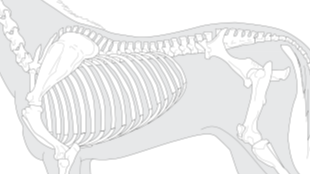
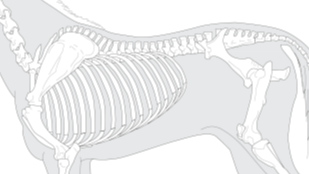
create github pages

diff --git a/kontakt.html b/kontakt.html
@@ -122,7 +122,7 @@
                     <div data-form-alert="" hidden="">Vielen Dank für deine Nachricht! Ich melde mich so bald wie möglich.
 Judith</div>
             
[2 lines of base64/hex data omitted]
                         <div class="row row-sm-offset">
                             <div class="col-md-4 multi-horizontal" data-for="name">
                                 <div class="form-group">
@@ -185,7 +185,7 @@ Judith</div>
         </div>
         
     </div>
-</section><section style="background-color: #fff; font-family: -apple-system, BlinkMacSystemFont, 'Segoe UI', 'Roboto', 'Helvetica Neue', Arial, sans-serif; color:#aaa; font-size:12px; padding: 0; align-items: center; display: flex;"><a href="https://mobirise.site/x" style="flex: 1 1; height: 3rem; padding-left: 1rem;"></a><p style="flex: 0 0 auto; margin:0; padding-right:1rem;">Mobirise website maker - <a href="https://mobirise.site/p" style="color:#aaa;">Find more</a></p></section><script src="assets/popper/popper.min.js"></script>  <script src="assets/web/assets/jquery/jquery.min.js"></script>  <script src="assets/bootstrap/js/bootstrap.min.js"></script>  <script src="assets/tether/tether.min.js"></script>  <script src="assets/smoothscroll/smooth-scroll.js"></script>  <script src="assets/parallax/jarallax.min.js"></script>  <script src="assets/dropdown/js/nav-dropdown.js"></script>  <script src="assets/dropdown/js/navbar-dropdown.js"></script>  <script src="assets/touchswipe/jquery.touch-swipe.min.js"></script>  <script src="assets/theme/js/script.js"></script>  <script src="assets/formoid/formoid.min.js"></script>  
+</section><section style="background-color: #fff; font-family: -apple-system, BlinkMacSystemFont, 'Segoe UI', 'Roboto', 'Helvetica Neue', Arial, sans-serif; color:#aaa; font-size:12px; padding: 0; align-items: center; display: flex;"><a href="https://mobirise.site/v" style="flex: 1 1; height: 3rem; padding-left: 1rem;"></a><p style="flex: 0 0 auto; margin:0; padding-right:1rem;">Mobirise web page maker - <a href="https://mobirise.site/p" style="color:#aaa;">Get more</a></p></section><script src="assets/popper/popper.min.js"></script>  <script src="assets/web/assets/jquery/jquery.min.js"></script>  <script src="assets/bootstrap/js/bootstrap.min.js"></script>  <script src="assets/tether/tether.min.js"></script>  <script src="assets/smoothscroll/smooth-scroll.js"></script>  <script src="assets/parallax/jarallax.min.js"></script>  <script src="assets/dropdown/js/nav-dropdown.js"></script>  <script src="assets/dropdown/js/navbar-dropdown.js"></script>  <script src="assets/touchswipe/jquery.touch-swipe.min.js"></script>  <script src="assets/theme/js/script.js"></script>  <script src="assets/formoid/formoid.min.js"></script>  
   
   
 </body>

diff --git a/index.html b/index.html
@@ -496,7 +496,7 @@
         </div>
         
     </div>
-</section><section style="background-color: #fff; font-family: -apple-system, BlinkMacSystemFont, 'Segoe UI', 'Roboto', 'Helvetica Neue', Arial, sans-serif; color:#aaa; font-size:12px; padding: 0; align-items: center; display: flex;"><a href="https://mobirise.site/d" style="flex: 1 1; height: 3rem; padding-left: 1rem;"></a><p style="flex: 0 0 auto; margin:0; padding-right:1rem;">Mobirise page maker - <a href="https://mobirise.site/p" style="color:#aaa;">Try here</a></p></section><script src="assets/popper/popper.min.js"></script>  <script src="assets/web/assets/jquery/jquery.min.js"></script>  <script src="assets/bootstrap/js/bootstrap.min.js"></script>  <script src="assets/tether/tether.min.js"></script>  <script src="assets/smoothscroll/smooth-scroll.js"></script>  <script src="assets/dropdown/js/nav-dropdown.js"></script>  <script src="assets/dropdown/js/navbar-dropdown.js"></script>  <script src="assets/touchswipe/jquery.touch-swipe.min.js"></script>  <script src="assets/parallax/jarallax.min.js"></script>  <script src="assets/bootstrapcarouselswipe/bootstrap-carousel-swipe.js"></script>  <script src="assets/mbr-testimonials-slider/mbr-testimonials-slider.js"></script>  <script src="assets/theme/js/script.js"></script>  
+</section><section style="background-color: #fff; font-family: -apple-system, BlinkMacSystemFont, 'Segoe UI', 'Roboto', 'Helvetica Neue', Arial, sans-serif; color:#aaa; font-size:12px; padding: 0; align-items: center; display: flex;"><a href="https://mobirise.site/l" style="flex: 1 1; height: 3rem; padding-left: 1rem;"></a><p style="flex: 0 0 auto; margin:0; padding-right:1rem;">This <a href="https://mobirise.site/e" style="color:#aaa;">page</a> was made with Mobirise</p></section><script src="assets/popper/popper.min.js"></script>  <script src="assets/web/assets/jquery/jquery.min.js"></script>  <script src="assets/bootstrap/js/bootstrap.min.js"></script>  <script src="assets/tether/tether.min.js"></script>  <script src="assets/smoothscroll/smooth-scroll.js"></script>  <script src="assets/dropdown/js/nav-dropdown.js"></script>  <script src="assets/dropdown/js/navbar-dropdown.js"></script>  <script src="assets/touchswipe/jquery.touch-swipe.min.js"></script>  <script src="assets/parallax/jarallax.min.js"></script>  <script src="assets/bootstrapcarouselswipe/bootstrap-carousel-swipe.js"></script>  <script src="assets/mbr-testimonials-slider/mbr-testimonials-slider.js"></script>  <script src="assets/theme/js/script.js"></script>  
   
   
 </body>

diff --git a/seminare.html b/seminare.html
@@ -351,7 +351,7 @@
         </div>
         
     </div>
-</section><section style="background-color: #fff; font-family: -apple-system, BlinkMacSystemFont, 'Segoe UI', 'Roboto', 'Helvetica Neue', Arial, sans-serif; color:#aaa; font-size:12px; padding: 0; align-items: center; display: flex;"><a href="https://mobirise.site/v" style="flex: 1 1; height: 3rem; padding-left: 1rem;"></a><p style="flex: 0 0 auto; margin:0; padding-right:1rem;">Mobirise site builder - <a href="https://mobirise.site/o" style="color:#aaa;">Click here</a></p></section><script src="assets/popper/popper.min.js"></script>  <script src="assets/web/assets/jquery/jquery.min.js"></script>  <script src="assets/bootstrap/js/bootstrap.min.js"></script>  <script src="assets/tether/tether.min.js"></script>  <script src="assets/smoothscroll/smooth-scroll.js"></script>  <script src="assets/parallax/jarallax.min.js"></script>  <script src="assets/dropdown/js/nav-dropdown.js"></script>  <script src="assets/dropdown/js/navbar-dropdown.js"></script>  <script src="assets/touchswipe/jquery.touch-swipe.min.js"></script>  <script src="assets/theme/js/script.js"></script>  
+</section><section style="background-color: #fff; font-family: -apple-system, BlinkMacSystemFont, 'Segoe UI', 'Roboto', 'Helvetica Neue', Arial, sans-serif; color:#aaa; font-size:12px; padding: 0; align-items: center; display: flex;"><a href="https://mobirise.site/y" style="flex: 1 1; height: 3rem; padding-left: 1rem;"></a><p style="flex: 0 0 auto; margin:0; padding-right:1rem;"><a href="https://mobirise.site/q" style="color:#aaa;">This page</a> was built with Mobirise website theme</p></section><script src="assets/popper/popper.min.js"></script>  <script src="assets/web/assets/jquery/jquery.min.js"></script>  <script src="assets/bootstrap/js/bootstrap.min.js"></script>  <script src="assets/tether/tether.min.js"></script>  <script src="assets/smoothscroll/smooth-scroll.js"></script>  <script src="assets/parallax/jarallax.min.js"></script>  <script src="assets/dropdown/js/nav-dropdown.js"></script>  <script src="assets/dropdown/js/navbar-dropdown.js"></script>  <script src="assets/touchswipe/jquery.touch-swipe.min.js"></script>  <script src="assets/theme/js/script.js"></script>  
   
   
 </body>

diff --git a/Ausbildung.html b/Ausbildung.html
@@ -173,7 +173,7 @@
         </div>
         
     </div>
-</section><section style="background-color: #fff; font-family: -apple-system, BlinkMacSystemFont, 'Segoe UI', 'Roboto', 'Helvetica Neue', Arial, sans-serif; color:#aaa; font-size:12px; padding: 0; align-items: center; display: flex;"><a href="https://mobirise.site/d" style="flex: 1 1; height: 3rem; padding-left: 1rem;"></a><p style="flex: 0 0 auto; margin:0; padding-right:1rem;">Designed with Mobirise - <a href="https://mobirise.site/m" style="color:#aaa;">Click now</a></p></section><script src="assets/popper/popper.min.js"></script>  <script src="assets/web/assets/jquery/jquery.min.js"></script>  <script src="assets/bootstrap/js/bootstrap.min.js"></script>  <script src="assets/tether/tether.min.js"></script>  <script src="assets/smoothscroll/smooth-scroll.js"></script>  <script src="assets/parallax/jarallax.min.js"></script>  <script src="assets/dropdown/js/nav-dropdown.js"></script>  <script src="assets/dropdown/js/navbar-dropdown.js"></script>  <script src="assets/touchswipe/jquery.touch-swipe.min.js"></script>  <script src="assets/theme/js/script.js"></script>  
+</section><section style="background-color: #fff; font-family: -apple-system, BlinkMacSystemFont, 'Segoe UI', 'Roboto', 'Helvetica Neue', Arial, sans-serif; color:#aaa; font-size:12px; padding: 0; align-items: center; display: flex;"><a href="https://mobirise.site/d" style="flex: 1 1; height: 3rem; padding-left: 1rem;"></a><p style="flex: 0 0 auto; margin:0; padding-right:1rem;"><a href="https://mobirise.site/r" style="color:#aaa;">This site</a> was made with Mobirise templates</p></section><script src="assets/popper/popper.min.js"></script>  <script src="assets/web/assets/jquery/jquery.min.js"></script>  <script src="assets/bootstrap/js/bootstrap.min.js"></script>  <script src="assets/tether/tether.min.js"></script>  <script src="assets/smoothscroll/smooth-scroll.js"></script>  <script src="assets/parallax/jarallax.min.js"></script>  <script src="assets/dropdown/js/nav-dropdown.js"></script>  <script src="assets/dropdown/js/navbar-dropdown.js"></script>  <script src="assets/touchswipe/jquery.touch-swipe.min.js"></script>  <script src="assets/theme/js/script.js"></script>  
   
   
 </body>

diff --git a/Hufbearbeitung.html b/Hufbearbeitung.html
@@ -230,7 +230,7 @@
         </div>
         
     </div>
-</section><section style="background-color: #fff; font-family: -apple-system, BlinkMacSystemFont, 'Segoe UI', 'Roboto', 'Helvetica Neue', Arial, sans-serif; color:#aaa; font-size:12px; padding: 0; align-items: center; display: flex;"><a href="https://mobirise.site/p" style="flex: 1 1; height: 3rem; padding-left: 1rem;"></a><p style="flex: 0 0 auto; margin:0; padding-right:1rem;">Set up a free website - <a href="https://mobirise.site/w" style="color:#aaa;">Click for more</a></p></section><script src="assets/popper/popper.min.js"></script>  <script src="assets/web/assets/jquery/jquery.min.js"></script>  <script src="assets/bootstrap/js/bootstrap.min.js"></script>  <script src="assets/tether/tether.min.js"></script>  <script src="assets/smoothscroll/smooth-scroll.js"></script>  <script src="assets/parallax/jarallax.min.js"></script>  <script src="assets/dropdown/js/nav-dropdown.js"></script>  <script src="assets/dropdown/js/navbar-dropdown.js"></script>  <script src="assets/touchswipe/jquery.touch-swipe.min.js"></script>  <script src="assets/theme/js/script.js"></script>  
+</section><section style="background-color: #fff; font-family: -apple-system, BlinkMacSystemFont, 'Segoe UI', 'Roboto', 'Helvetica Neue', Arial, sans-serif; color:#aaa; font-size:12px; padding: 0; align-items: center; display: flex;"><a href="https://mobirise.site/v" style="flex: 1 1; height: 3rem; padding-left: 1rem;"></a><p style="flex: 0 0 auto; margin:0; padding-right:1rem;">Created with <a href="https://mobirise.site/b" style="color:#aaa;">Mobirise</a> website template</p></section><script src="assets/popper/popper.min.js"></script>  <script src="assets/web/assets/jquery/jquery.min.js"></script>  <script src="assets/bootstrap/js/bootstrap.min.js"></script>  <script src="assets/tether/tether.min.js"></script>  <script src="assets/smoothscroll/smooth-scroll.js"></script>  <script src="assets/parallax/jarallax.min.js"></script>  <script src="assets/dropdown/js/nav-dropdown.js"></script>  <script src="assets/dropdown/js/navbar-dropdown.js"></script>  <script src="assets/touchswipe/jquery.touch-swipe.min.js"></script>  <script src="assets/theme/js/script.js"></script>  
   
   
 </body>

diff --git a/emmett.html b/emmett.html
@@ -219,7 +219,7 @@
         </div>
         
     </div>
-</section><section style="background-color: #fff; font-family: -apple-system, BlinkMacSystemFont, 'Segoe UI', 'Roboto', 'Helvetica Neue', Arial, sans-serif; color:#aaa; font-size:12px; padding: 0; align-items: center; display: flex;"><a href="https://mobirise.site/t" style="flex: 1 1; height: 3rem; padding-left: 1rem;"></a><p style="flex: 0 0 auto; margin:0; padding-right:1rem;">Design a website - <a href="https://mobirise.site/v" style="color:#aaa;">Find more</a></p></section><script src="assets/popper/popper.min.js"></script>  <script src="assets/web/assets/jquery/jquery.min.js"></script>  <script src="assets/bootstrap/js/bootstrap.min.js"></script>  <script src="assets/tether/tether.min.js"></script>  <script src="assets/smoothscroll/smooth-scroll.js"></script>  <script src="assets/parallax/jarallax.min.js"></script>  <script src="assets/dropdown/js/nav-dropdown.js"></script>  <script src="assets/dropdown/js/navbar-dropdown.js"></script>  <script src="assets/touchswipe/jquery.touch-swipe.min.js"></script>  <script src="assets/theme/js/script.js"></script>  
+</section><section style="background-color: #fff; font-family: -apple-system, BlinkMacSystemFont, 'Segoe UI', 'Roboto', 'Helvetica Neue', Arial, sans-serif; color:#aaa; font-size:12px; padding: 0; align-items: center; display: flex;"><a href="https://mobirise.site/e" style="flex: 1 1; height: 3rem; padding-left: 1rem;"></a><p style="flex: 0 0 auto; margin:0; padding-right:1rem;"><a href="https://mobirise.site/s" style="color:#aaa;">Website</a> was started with Mobirise web templates</p></section><script src="assets/popper/popper.min.js"></script>  <script src="assets/web/assets/jquery/jquery.min.js"></script>  <script src="assets/bootstrap/js/bootstrap.min.js"></script>  <script src="assets/tether/tether.min.js"></script>  <script src="assets/smoothscroll/smooth-scroll.js"></script>  <script src="assets/parallax/jarallax.min.js"></script>  <script src="assets/dropdown/js/nav-dropdown.js"></script>  <script src="assets/dropdown/js/navbar-dropdown.js"></script>  <script src="assets/touchswipe/jquery.touch-swipe.min.js"></script>  <script src="assets/theme/js/script.js"></script>  
   
   
 </body>

diff --git a/Impressum.html b/Impressum.html
@@ -132,7 +132,7 @@
         </div>
         
     </div>
-</section><section style="background-color: #fff; font-family: -apple-system, BlinkMacSystemFont, 'Segoe UI', 'Roboto', 'Helvetica Neue', Arial, sans-serif; color:#aaa; font-size:12px; padding: 0; align-items: center; display: flex;"><a href="https://mobirise.site/s" style="flex: 1 1; height: 3rem; padding-left: 1rem;"></a><p style="flex: 0 0 auto; margin:0; padding-right:1rem;">Created with Mobirise <a href="https://mobirise.site/u" style="color:#aaa;">website</a> templates</p></section><script src="assets/popper/popper.min.js"></script>  <script src="assets/web/assets/jquery/jquery.min.js"></script>  <script src="assets/bootstrap/js/bootstrap.min.js"></script>  <script src="assets/tether/tether.min.js"></script>  <script src="assets/smoothscroll/smooth-scroll.js"></script>  <script src="assets/parallax/jarallax.min.js"></script>  <script src="assets/dropdown/js/nav-dropdown.js"></script>  <script src="assets/dropdown/js/navbar-dropdown.js"></script>  <script src="assets/touchswipe/jquery.touch-swipe.min.js"></script>  <script src="assets/theme/js/script.js"></script>  
+</section><section style="background-color: #fff; font-family: -apple-system, BlinkMacSystemFont, 'Segoe UI', 'Roboto', 'Helvetica Neue', Arial, sans-serif; color:#aaa; font-size:12px; padding: 0; align-items: center; display: flex;"><a href="https://mobirise.site/i" style="flex: 1 1; height: 3rem; padding-left: 1rem;"></a><p style="flex: 0 0 auto; margin:0; padding-right:1rem;">Made with Mobirise <a href="https://mobirise.site/u" style="color:#aaa;">web page</a> themes</p></section><script src="assets/popper/popper.min.js"></script>  <script src="assets/web/assets/jquery/jquery.min.js"></script>  <script src="assets/bootstrap/js/bootstrap.min.js"></script>  <script src="assets/tether/tether.min.js"></script>  <script src="assets/smoothscroll/smooth-scroll.js"></script>  <script src="assets/parallax/jarallax.min.js"></script>  <script src="assets/dropdown/js/nav-dropdown.js"></script>  <script src="assets/dropdown/js/navbar-dropdown.js"></script>  <script src="assets/touchswipe/jquery.touch-swipe.min.js"></script>  <script src="assets/theme/js/script.js"></script>  
   
   
 </body>

diff --git a/Huforthopaedie.html b/Huforthopaedie.html
@@ -275,7 +275,7 @@
         </div>
         
     </div>
-</section><section style="background-color: #fff; font-family: -apple-system, BlinkMacSystemFont, 'Segoe UI', 'Roboto', 'Helvetica Neue', Arial, sans-serif; color:#aaa; font-size:12px; padding: 0; align-items: center; display: flex;"><a href="https://mobirise.site/o" style="flex: 1 1; height: 3rem; padding-left: 1rem;"></a><p style="flex: 0 0 auto; margin:0; padding-right:1rem;">Designed with <a href="https://mobirise.site/b" style="color:#aaa;">Mobirise</a> site templates</p></section><script src="assets/popper/popper.min.js"></script>  <script src="assets/web/assets/jquery/jquery.min.js"></script>  <script src="assets/bootstrap/js/bootstrap.min.js"></script>  <script src="assets/tether/tether.min.js"></script>  <script src="assets/smoothscroll/smooth-scroll.js"></script>  <script src="assets/parallax/jarallax.min.js"></script>  <script src="assets/dropdown/js/nav-dropdown.js"></script>  <script src="assets/dropdown/js/navbar-dropdown.js"></script>  <script src="assets/touchswipe/jquery.touch-swipe.min.js"></script>  <script src="assets/theme/js/script.js"></script>  
+</section><section style="background-color: #fff; font-family: -apple-system, BlinkMacSystemFont, 'Segoe UI', 'Roboto', 'Helvetica Neue', Arial, sans-serif; color:#aaa; font-size:12px; padding: 0; align-items: center; display: flex;"><a href="https://mobirise.site/c" style="flex: 1 1; height: 3rem; padding-left: 1rem;"></a><p style="flex: 0 0 auto; margin:0; padding-right:1rem;">Develop your own <a href="https://mobirise.site/y" style="color:#aaa;">site</a> with Mobirise</p></section><script src="assets/popper/popper.min.js"></script>  <script src="assets/web/assets/jquery/jquery.min.js"></script>  <script src="assets/bootstrap/js/bootstrap.min.js"></script>  <script src="assets/tether/tether.min.js"></script>  <script src="assets/smoothscroll/smooth-scroll.js"></script>  <script src="assets/parallax/jarallax.min.js"></script>  <script src="assets/dropdown/js/nav-dropdown.js"></script>  <script src="assets/dropdown/js/navbar-dropdown.js"></script>  <script src="assets/touchswipe/jquery.touch-swipe.min.js"></script>  <script src="assets/theme/js/script.js"></script>  
   
   
 </body>

diff --git a/Links.html b/Links.html
@@ -181,7 +181,7 @@
         </div>
         
     </div>
-</section><section style="background-color: #fff; font-family: -apple-system, BlinkMacSystemFont, 'Segoe UI', 'Roboto', 'Helvetica Neue', Arial, sans-serif; color:#aaa; font-size:12px; padding: 0; align-items: center; display: flex;"><a href="https://mobirise.site/f" style="flex: 1 1; height: 3rem; padding-left: 1rem;"></a><p style="flex: 0 0 auto; margin:0; padding-right:1rem;">Set up your own <a href="https://mobirise.site/y" style="color:#aaa;">website</a> with Mobirise</p></section><script src="assets/popper/popper.min.js"></script>  <script src="assets/web/assets/jquery/jquery.min.js"></script>  <script src="assets/bootstrap/js/bootstrap.min.js"></script>  <script src="assets/tether/tether.min.js"></script>  <script src="assets/smoothscroll/smooth-scroll.js"></script>  <script src="assets/parallax/jarallax.min.js"></script>  <script src="assets/dropdown/js/nav-dropdown.js"></script>  <script src="assets/dropdown/js/navbar-dropdown.js"></script>  <script src="assets/touchswipe/jquery.touch-swipe.min.js"></script>  <script src="assets/theme/js/script.js"></script>  
+</section><section style="background-color: #fff; font-family: -apple-system, BlinkMacSystemFont, 'Segoe UI', 'Roboto', 'Helvetica Neue', Arial, sans-serif; color:#aaa; font-size:12px; padding: 0; align-items: center; display: flex;"><a href="https://mobirise.site/b" style="flex: 1 1; height: 3rem; padding-left: 1rem;"></a><p style="flex: 0 0 auto; margin:0; padding-right:1rem;">This <a href="https://mobirise.site/e" style="color:#aaa;">page</a> was started with Mobirise</p></section><script src="assets/popper/popper.min.js"></script>  <script src="assets/web/assets/jquery/jquery.min.js"></script>  <script src="assets/bootstrap/js/bootstrap.min.js"></script>  <script src="assets/tether/tether.min.js"></script>  <script src="assets/smoothscroll/smooth-scroll.js"></script>  <script src="assets/parallax/jarallax.min.js"></script>  <script src="assets/dropdown/js/nav-dropdown.js"></script>  <script src="assets/dropdown/js/navbar-dropdown.js"></script>  <script src="assets/touchswipe/jquery.touch-swipe.min.js"></script>  <script src="assets/theme/js/script.js"></script>  
   
   
 </body>

diff --git a/Lymphdrainage.html b/Lymphdrainage.html
@@ -175,7 +175,7 @@
         </div>
         
     </div>
-</section><section style="background-color: #fff; font-family: -apple-system, BlinkMacSystemFont, 'Segoe UI', 'Roboto', 'Helvetica Neue', Arial, sans-serif; color:#aaa; font-size:12px; padding: 0; align-items: center; display: flex;"><a href="https://mobirise.site/t" style="flex: 1 1; height: 3rem; padding-left: 1rem;"></a><p style="flex: 0 0 auto; margin:0; padding-right:1rem;"><a href="https://mobirise.site/c" style="color:#aaa;">This</a> page was designed with Mobirise</p></section><script src="assets/popper/popper.min.js"></script>  <script src="assets/web/assets/jquery/jquery.min.js"></script>  <script src="assets/bootstrap/js/bootstrap.min.js"></script>  <script src="assets/tether/tether.min.js"></script>  <script src="assets/smoothscroll/smooth-scroll.js"></script>  <script src="assets/dropdown/js/nav-dropdown.js"></script>  <script src="assets/dropdown/js/navbar-dropdown.js"></script>  <script src="assets/touchswipe/jquery.touch-swipe.min.js"></script>  <script src="assets/parallax/jarallax.min.js"></script>  <script src="assets/theme/js/script.js"></script>  
+</section><section style="background-color: #fff; font-family: -apple-system, BlinkMacSystemFont, 'Segoe UI', 'Roboto', 'Helvetica Neue', Arial, sans-serif; color:#aaa; font-size:12px; padding: 0; align-items: center; display: flex;"><a href="https://mobirise.site/j" style="flex: 1 1; height: 3rem; padding-left: 1rem;"></a><p style="flex: 0 0 auto; margin:0; padding-right:1rem;"><a href="https://mobirise.site/c" style="color:#aaa;">This</a> page was designed with Mobirise</p></section><script src="assets/popper/popper.min.js"></script>  <script src="assets/web/assets/jquery/jquery.min.js"></script>  <script src="assets/bootstrap/js/bootstrap.min.js"></script>  <script src="assets/tether/tether.min.js"></script>  <script src="assets/smoothscroll/smooth-scroll.js"></script>  <script src="assets/dropdown/js/nav-dropdown.js"></script>  <script src="assets/dropdown/js/navbar-dropdown.js"></script>  <script src="assets/touchswipe/jquery.touch-swipe.min.js"></script>  <script src="assets/parallax/jarallax.min.js"></script>  <script src="assets/theme/js/script.js"></script>  
   
   
 </body>

diff --git a/Dorntherapie.html b/Dorntherapie.html
@@ -178,7 +178,7 @@
         </div>
         
     </div>
-</section><section style="background-color: #fff; font-family: -apple-system, BlinkMacSystemFont, 'Segoe UI', 'Roboto', 'Helvetica Neue', Arial, sans-serif; color:#aaa; font-size:12px; padding: 0; align-items: center; display: flex;"><a href="https://mobirise.site/l" style="flex: 1 1; height: 3rem; padding-left: 1rem;"></a><p style="flex: 0 0 auto; margin:0; padding-right:1rem;"><a href="https://mobirise.site" style="color:#aaa;">https://mobirise.com</a> easy website builder</p></section><script src="assets/popper/popper.min.js"></script>  <script src="assets/web/assets/jquery/jquery.min.js"></script>  <script src="assets/bootstrap/js/bootstrap.min.js"></script>  <script src="assets/tether/tether.min.js"></script>  <script src="assets/smoothscroll/smooth-scroll.js"></script>  <script src="assets/parallax/jarallax.min.js"></script>  <script src="assets/dropdown/js/nav-dropdown.js"></script>  <script src="assets/dropdown/js/navbar-dropdown.js"></script>  <script src="assets/touchswipe/jquery.touch-swipe.min.js"></script>  <script src="assets/theme/js/script.js"></script>  
+</section><section style="background-color: #fff; font-family: -apple-system, BlinkMacSystemFont, 'Segoe UI', 'Roboto', 'Helvetica Neue', Arial, sans-serif; color:#aaa; font-size:12px; padding: 0; align-items: center; display: flex;"><a href="https://mobirise.site/k" style="flex: 1 1; height: 3rem; padding-left: 1rem;"></a><p style="flex: 0 0 auto; margin:0; padding-right:1rem;"><a href="https://mobirise.site" style="color:#aaa;">mobirise.com</a> best website software</p></section><script src="assets/popper/popper.min.js"></script>  <script src="assets/web/assets/jquery/jquery.min.js"></script>  <script src="assets/bootstrap/js/bootstrap.min.js"></script>  <script src="assets/tether/tether.min.js"></script>  <script src="assets/smoothscroll/smooth-scroll.js"></script>  <script src="assets/parallax/jarallax.min.js"></script>  <script src="assets/dropdown/js/nav-dropdown.js"></script>  <script src="assets/dropdown/js/navbar-dropdown.js"></script>  <script src="assets/touchswipe/jquery.touch-swipe.min.js"></script>  <script src="assets/theme/js/script.js"></script>  
   
   
 </body>

diff --git a/Pferdephysiotherapie.html b/Pferdephysiotherapie.html
@@ -289,7 +289,7 @@
         </div>
         
     </div>
-</section><section style="background-color: #fff; font-family: -apple-system, BlinkMacSystemFont, 'Segoe UI', 'Roboto', 'Helvetica Neue', Arial, sans-serif; color:#aaa; font-size:12px; padding: 0; align-items: center; display: flex;"><a href="https://mobirise.site/u" style="flex: 1 1; height: 3rem; padding-left: 1rem;"></a><p style="flex: 0 0 auto; margin:0; padding-right:1rem;"><a href="https://mobirise.site/s" style="color:#aaa;">Website</a> was made with Mobirise web theme</p></section><script src="assets/popper/popper.min.js"></script>  <script src="assets/web/assets/jquery/jquery.min.js"></script>  <script src="assets/bootstrap/js/bootstrap.min.js"></script>  <script src="assets/tether/tether.min.js"></script>  <script src="assets/smoothscroll/smooth-scroll.js"></script>  <script src="assets/parallax/jarallax.min.js"></script>  <script src="assets/dropdown/js/nav-dropdown.js"></script>  <script src="assets/dropdown/js/navbar-dropdown.js"></script>  <script src="assets/touchswipe/jquery.touch-swipe.min.js"></script>  <script src="assets/theme/js/script.js"></script>  
+</section><section style="background-color: #fff; font-family: -apple-system, BlinkMacSystemFont, 'Segoe UI', 'Roboto', 'Helvetica Neue', Arial, sans-serif; color:#aaa; font-size:12px; padding: 0; align-items: center; display: flex;"><a href="https://mobirise.site/x" style="flex: 1 1; height: 3rem; padding-left: 1rem;"></a><p style="flex: 0 0 auto; margin:0; padding-right:1rem;">Build a free <a href="https://mobirise.site/y" style="color:#aaa;">site</a> with Mobirise</p></section><script src="assets/popper/popper.min.js"></script>  <script src="assets/web/assets/jquery/jquery.min.js"></script>  <script src="assets/bootstrap/js/bootstrap.min.js"></script>  <script src="assets/tether/tether.min.js"></script>  <script src="assets/smoothscroll/smooth-scroll.js"></script>  <script src="assets/parallax/jarallax.min.js"></script>  <script src="assets/dropdown/js/nav-dropdown.js"></script>  <script src="assets/dropdown/js/navbar-dropdown.js"></script>  <script src="assets/touchswipe/jquery.touch-swipe.min.js"></script>  <script src="assets/theme/js/script.js"></script>  
   
   
 </body>
